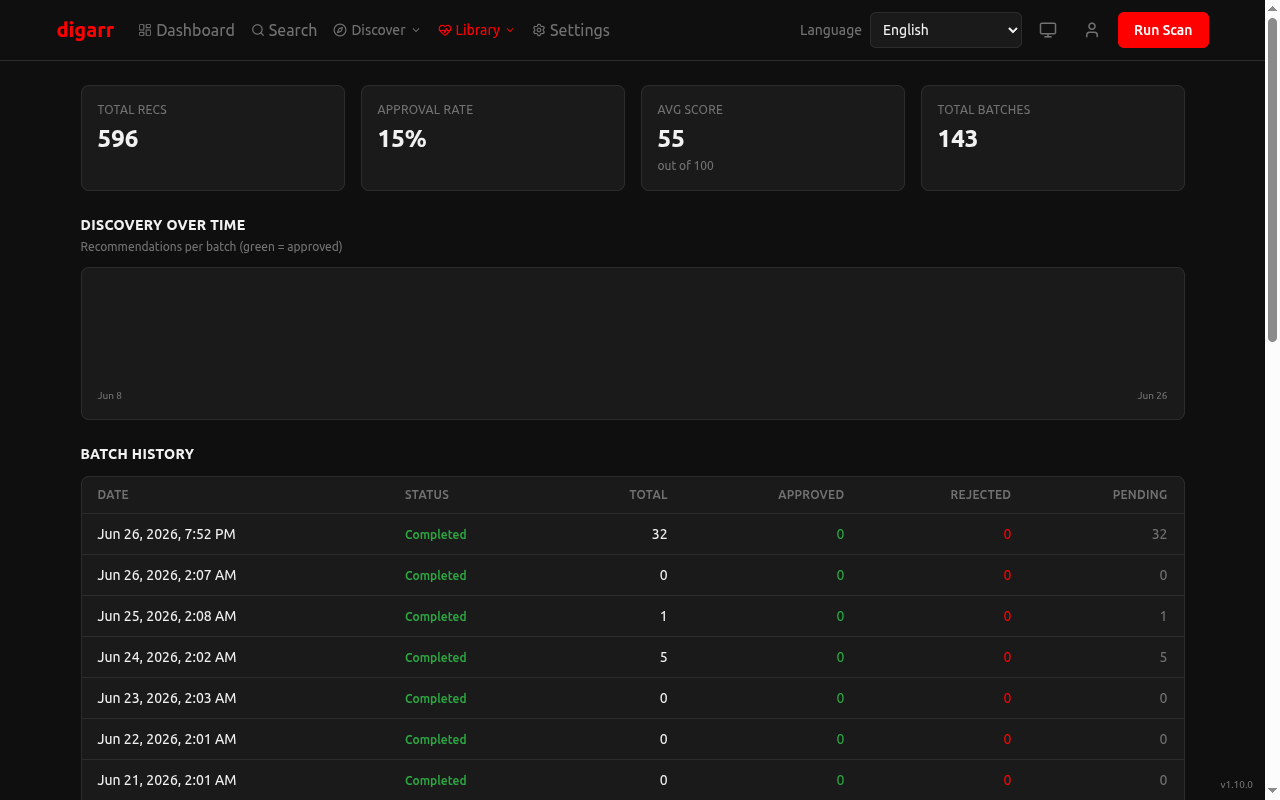
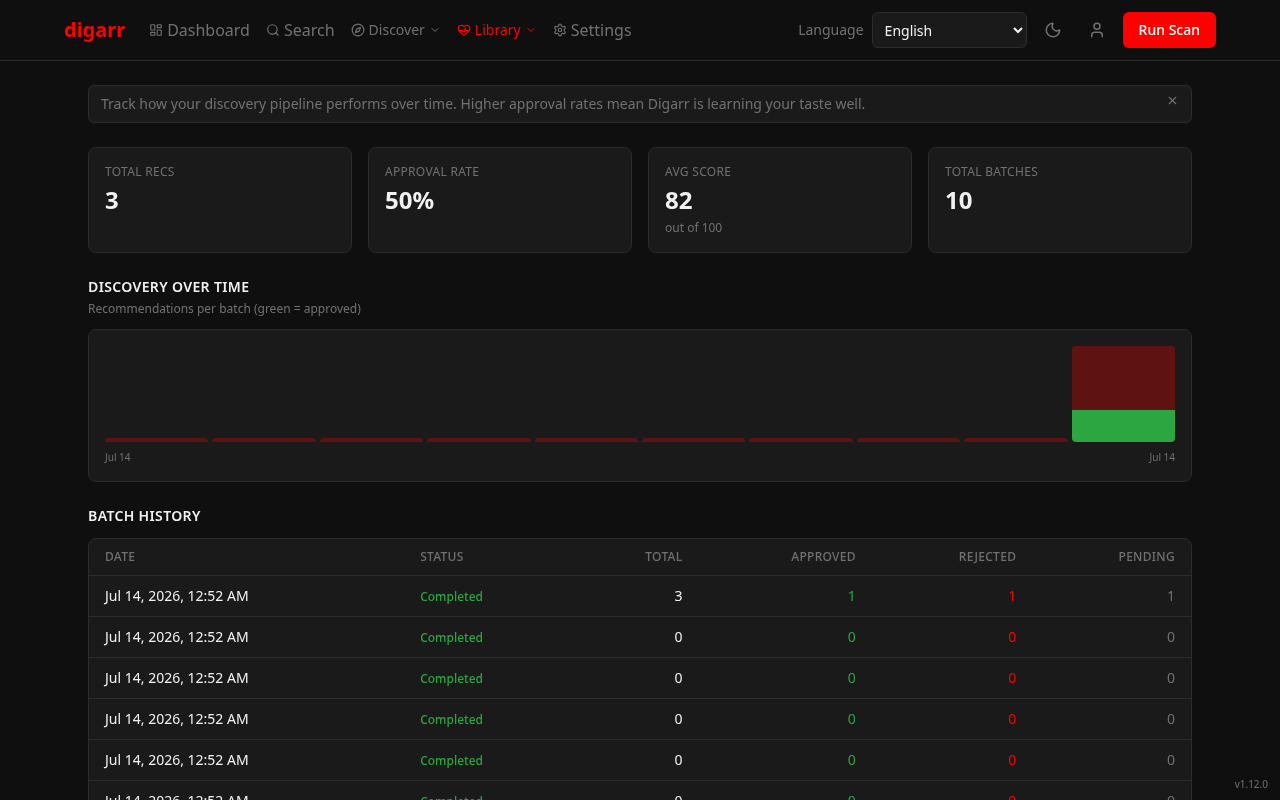
fix(analytics): restore discovery chart bars

diff --git a/tests/web/pages/analytics.test.tsx b/tests/web/pages/analytics.test.tsx
@@ -33,10 +33,12 @@ vi.mock('@/web/lib/api', () => ({
   getTimeToAct: vi.fn().mockResolvedValue([]),
 }))
 
+import { getAnalyticsBatches } from '@/web/lib/api'
 import { AnalyticsPage } from '@/web/pages/analytics'
 
 describe('AnalyticsPage', () => {
   beforeEach(() => {
+    vi.mocked(getAnalyticsBatches).mockResolvedValue([])
     const storage = new Map<string, string>()
     Object.defineProperty(globalThis, 'localStorage', {
       configurable: true,
@@ -64,5 +66,26 @@ describe('AnalyticsPage', () => {
         'Suivez les performances de votre pipeline de découverte au fil du temps. Des taux d’approbation plus élevés signifient que Digarr apprend bien vos goûts.',
       ),
     ).toBeInTheDocument()
+  })
+
+  it('gives each discovery chart column the full chart height', async () => {
+    vi.mocked(getAnalyticsBatches).mockResolvedValueOnce([
+      {
+        id: 1,
+        createdAt: '2026-07-13T12:00:00.000Z',
+        status: 'completed',
+        stats: {},
+        total: 10,
+        approved: 4,
+        rejected: 3,
+        pending: 3,
+      },
+    ])
+
+    renderWithQuery(<AnalyticsPage />)
+
+    const column = await screen.findByTitle(/10 recs \(4 approved\)/)
+    expect(column).toHaveClass('h-full')
+    expect(column.querySelectorAll('[style*="height"]')).toHaveLength(2)
   })
 })

diff --git a/src/web/pages/analytics.tsx b/src/web/pages/analytics.tsx
@@ -163,7 +163,7 @@ function DiscoveryChart({ batches }: { batches: AnalyticsBatch[] }) {
           return (
             <div
               key={b.id}
-              className="flex-1 flex flex-col justify-end group relative"
+              className="flex-1 h-full flex flex-col justify-end group relative"
               title={`${formatAnalyticsDate(locale, b.createdAt)}: ${b.total} ${t('analytics.recommendationsShort')} (${b.approved} ${t('analytics.approvedShort')})`}
             >
               <div

diff --git a/CHANGELOG.md b/CHANGELOG.md
@@ -17,6 +17,7 @@ Releases that have been promoted to the `:stable` Docker channel carry a `(stabl
 
 ### Fixed
 
+- **Discovery over time bars are visible again.** Each batch column now owns the full chart height, so its existing percentage segments render instead of resolving to zero. Scaling, ordering, date labels, and tooltips are unchanged.
 - **Spotify audition no longer advances silently when browser autoplay is blocked.** The queue now reuses Spotify's supported iframe controller across recommendations, treats an item as playing only after the controller confirms it, and advances only after playback completes. When autoplay is blocked, the current embed remains usable so one manual play can activate the persistent controller for later entries. A controller initialization failure skips that audition item instead of parking the queue; outside a queue, it falls back to the standard usable embed. Deezer still advances from its native `ended` event, while YouTube keeps the bounded 30-second fallback.
 - **An empty Albums view now explains how album recommendations are created.** A normal scan remains artist-focused; the empty state links directly to Library Gap-Fill, Release Radar, and the net-new album discovery preference. Discovery-mode links scroll to and focus the requested mode, while the settings link opens Advanced and focuses the preference. Translated across all 15 shipped locales.
 - **Nightly containers now report their real build identity.** The image keeps the build-time commit SHA and release channel in the runtime stage, so the web footer and `GET /health` no longer fall back to `dev` / `local` in deployed nightly images.

diff --git a/docs/SCREENSHOTS.md b/docs/SCREENSHOTS.md
@@ -1,8 +1,9 @@
 # Screenshots
 
-The checked-in screenshots were captured from v1.10.0 and use the Youtarr
-theme. The descriptions below reflect the current `develop`/`:nightly` UI when
-later features are not visible in an image. Capture a fresh set with
+The checked-in screenshots use the Youtarr theme. Most were captured from
+v1.10.0; Analytics was refreshed from v1.12.0 after its chart rendering fix.
+The descriptions below reflect the current `develop`/`:nightly` UI when later
+features are not visible in an image. Capture a fresh set with
 `bun scripts/capture-screenshots.ts`; see that script's header for environment
 variables.
 
@@ -65,6 +66,8 @@ Admin panel on the Library Health page. Shipped in `v0.17.0` and expanded in `v0
 ## Analytics
 
 ![Analytics](screenshots/analytics.png)
+
+The Discovery over time chart shows per-batch recommendation totals, with the approved portion in green.
 
 ## Settings
 
